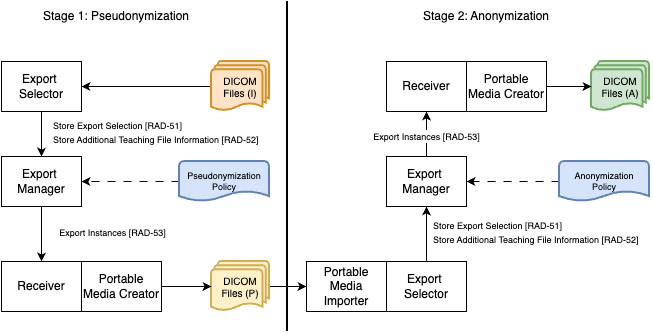
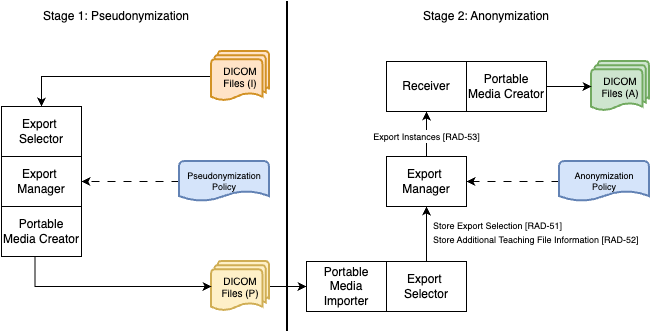
Export DICOM multi-stage de-identification diagram to PNG
- Export example-multi-stage-deid-dicom.drawio to PNG format
- Update .gitignore to exclude draw.io backup files (*.bkp)
- Update dicom-example.md content

diff --git a/input/pagecontent/dicom-example.md b/input/pagecontent/dicom-example.md
@@ -9,7 +9,13 @@ As we explained in the section of de-identification process, some cases requries
   <figcaption><strong>Two stages of de-identification based on TCE Profile </strong></figcaption>
 </figure>
 
-This example demostrats a scenario that the de-identification function deployed on a modality works together with a dedicated or centrally managed de-identification service based on TCE profile. We assume a portable media is used to transfer the pseudonymized DICOM data from the enviroment where original DICOM data is generated or managed to the enviroment where a dedicated de-identification service is deployed. The two stages shares a similar structure which includes Export Selector, Export Manager, Receiver, and Portable Media Creator. The only difference between them is that the second stage requires one more component, Portable Media Importor, which is used for reading the pseudonymized DICOM stored on the portable media. We also assume the modality in this example implements TCE(Teaching File and Clinical Trial Export) and PDI (Portable Data for Imaging Integration Profile) specified in the [(IHE RAD TF Vol1)](references.html#IHE_RAD_TF_Vol1).
+This example demostrats a scenario that the de-identification function deployed on a modality works together with a dedicated or centrally managed de-identification service based on TCE profile. The example is based on the following assumptions:
+- The modality implements funcationalities of Export Selector, Export Manager and Portable Media Creator. Since these actors are all grouped together, it's not necessary to follow the transactions between them specified the TCE Profile.
+- De-Identification function on the modality is builtin function of the modality, and the de-identification function is based on a pseudonymization policy.
+- The pseudonymized DICOM data is exported to a portable media.
+- A dedicated centralized DICOM data for secondary use is established based on the TCE profile, which more advanced DICOM anonymization can be performed.
+- A portable media is used to transfer the pseudonymized DICOM data from the modality to the secondary data use environment due to the unavailability of DICOM network service between them.
+
 
 
 
